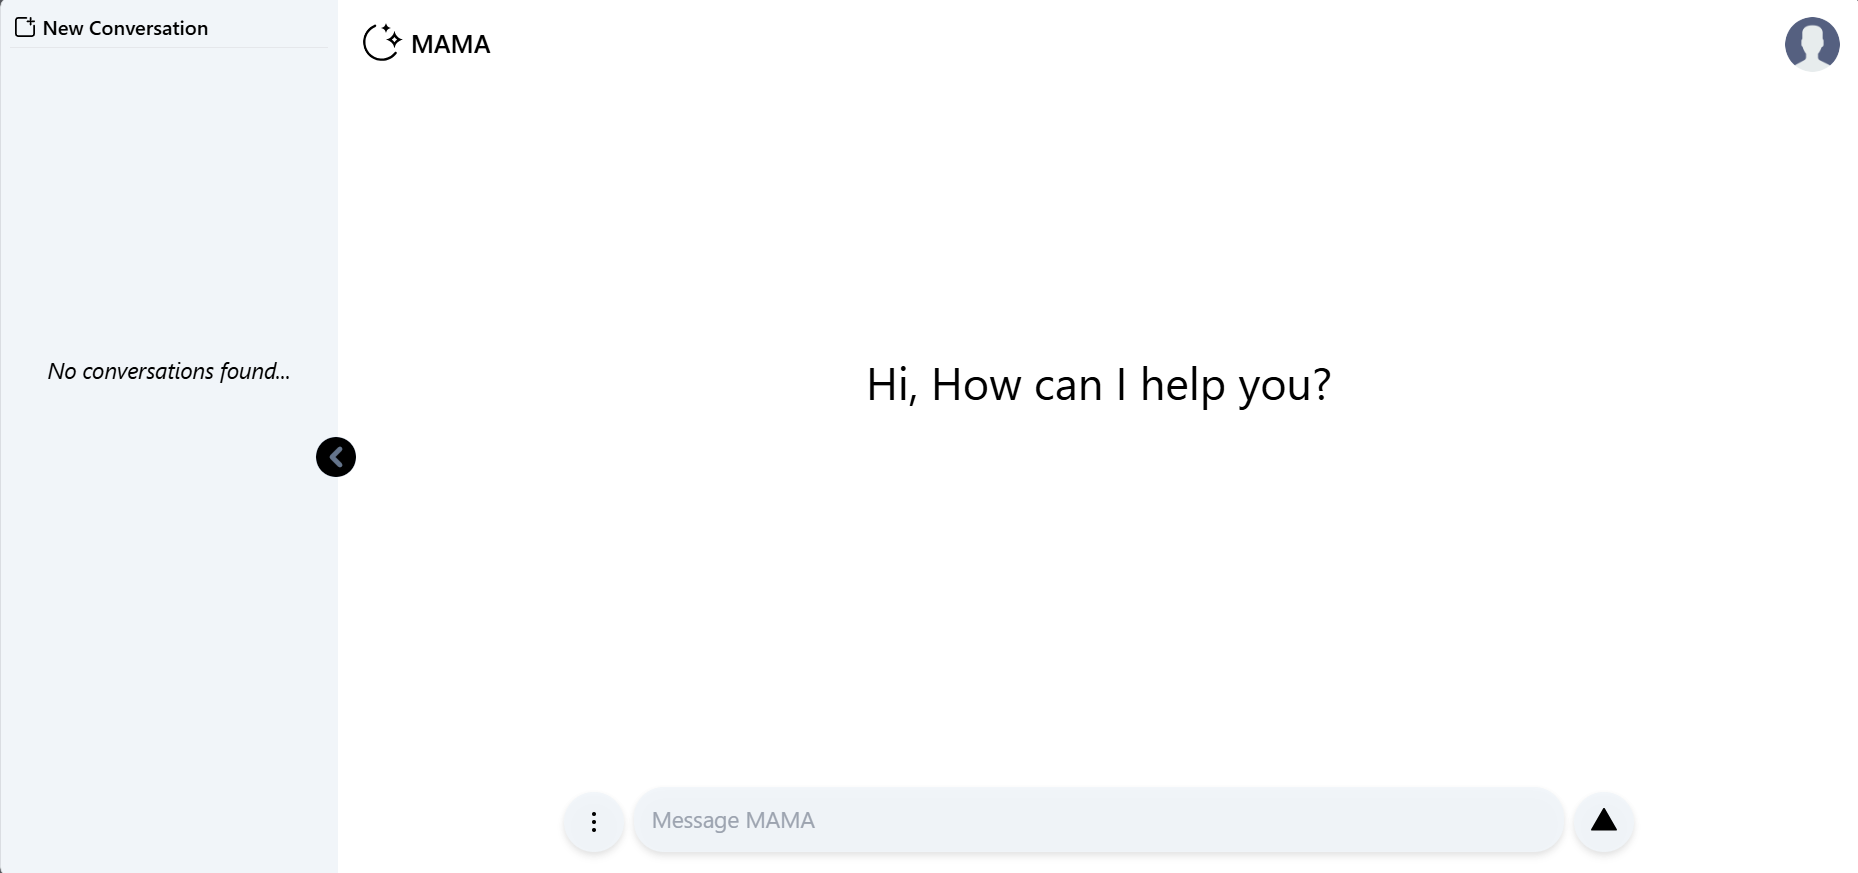
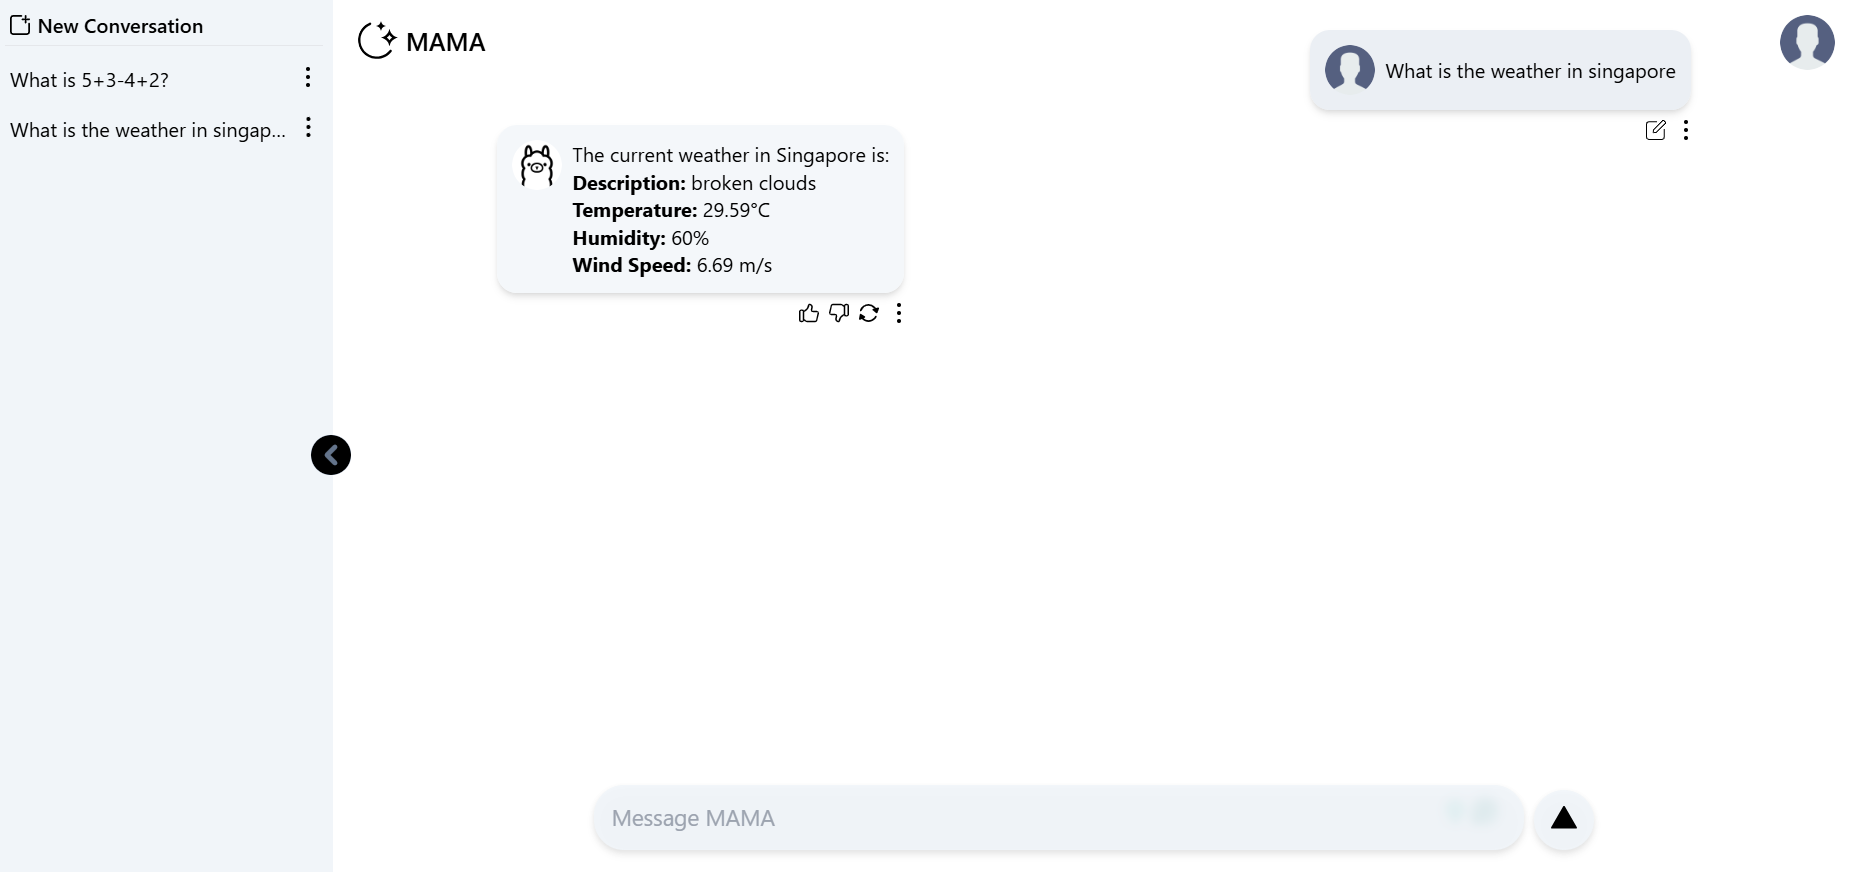
Prevented the Socket connection from closing after long agent calls, some minor fixes on the routes regarding validation and include new UI image

diff --git a/ui/src/views/Chat.vue b/ui/src/views/Chat.vue
@@ -1,18 +1,18 @@
 <template>
-    <div class="grid grid-cols-11 grid-rows-8 w-full h-screen bg-white">
-      <div class="col-span-2 row-span-8 bg-slate-100 p-2 relative">
-        <HistoryPanel/>
-        <img class="w-8 h-8 cursor-pointer rotate-180 absolute -right-3.5 top-[50%] bg-slate-500 rounded-full" src="../assets/arrow.svg"/>
-      </div>
-      <div class="col-span-9 row-span-7 bg-transparent relative h-screen">
-        <LogoPanel/>
-        <UserPanel/>
-        <ChatPanel/>
-      </div>
-      <div class="col-span-9 row-span-1 relative flex justify-center bg-transparent">
-        <QueryPanel/>
-      </div>
+  <div class="grid grid-cols-11 grid-rows-8 w-full h-screen bg-white">
+    <div class="col-span-2 row-span-8 bg-slate-100 p-2 relative">
+      <HistoryPanel/>
+      <img class="w-8 h-8 cursor-pointer rotate-180 absolute -right-3.5 top-[50%] bg-slate-500 rounded-full" src="../assets/arrow.svg"/>
     </div>
+    <div class="col-span-9 row-span-7 bg-transparent relative h-screen">
+      <LogoPanel/>
+      <UserPanel/>
+      <ChatPanel/>
+    </div>
+    <div class="col-span-9 row-span-1 relative flex justify-center bg-transparent">
+      <QueryPanel/>
+    </div>
+  </div>
 </template>
   
 <script>
@@ -23,11 +23,6 @@ import QueryPanel from '../components/panel/QueryPanel.vue';
 import UserPanel from '../components/panel/UserPanel.vue';
   
 export default {
-    data() {
-        return {
-            socket: null
-        }
-    },
     components: {
       QueryPanel,UserPanel,HistoryPanel,ChatPanel,LogoPanel
     }

diff --git a/ui/src/store/index.js b/ui/src/store/index.js
@@ -73,10 +73,12 @@ const store=createStore({
             state.integrations.push(integration)
         },
         editIntegration(state,{id,name,key}){
-            let integration=state.integrations.find(integration=>integration.id==id)
-            state.integrations=state.integrations.filter(integration=>integration.id!=id)
-            integration.key=key
-            state.integrations.push(integration)
+            state.integrations=state.integrations.map(integration=>{
+                if(integration.id==id){
+                    integration.key=key
+                }
+                return integration
+            })
         },
         deleteIntegration(state,id){
             state.integrations=state.integrations.filter(integration=>integration.id!=id)
@@ -88,13 +90,15 @@ const store=createStore({
             state.conversation={id,title}
         },
         addConversation(state,conversation){
-            state.conversations.push(conversation)
+            state.conversations.unshift(conversation)
         },
         editConversation(state,{id,title}){
-            let conversation=state.conversations.find(conversation=>conversation.id==id)
-            state.conversations=state.conversations.filter(conversation=>conversation.id!=id)
-            conversation.title=title
-            state.conversations.push(conversation)
+            state.conversations=state.conversations.map(conversation=>{
+                if(conversation.id==id){
+                    conversation.title=title
+                }
+                return conversation
+            })
         },
         deleteConversation(state,id){
             state.conversations=state.conversations.filter(conversation=>conversation.id!=id)
@@ -198,7 +202,7 @@ const store=createStore({
             let response=await axios.get(`api/conversation`)
             let [data,status]=response.data
             if(data.status=='success'){
-                let conversations=data.conversations
+                let conversations=data.conversations.reverse()
                 commit('getConversations',conversations)
             }
             console.log(data.message);
@@ -207,6 +211,7 @@ const store=createStore({
             let response=await axios.get(`api/conversation/${conversation_id}`)
             let [data,status]=response.data
             if(data.status=='success'){
+                console.log(data);
                 let {id,title,messages}=data.conversation
                 commit('getConversation',{id,title})
                 commit('getMessages',messages)

diff --git a/server.py b/server.py
@@ -1,12 +1,12 @@
-from fastapi import FastAPI,WebSocket,WebSocketDisconnect
+from fastapi import FastAPI, WebSocket, WebSocketDisconnect, BackgroundTasks
 from fastapi.middleware.cors import CORSMiddleware
 from contextlib import asynccontextmanager
 from api.conversation import conversation
-from src.inference.groq import ChatGroq
+from src.inference.gemini import ChatGemini
 from api.integration import integration
 from src.agent.meta import MetaAgent
 from api.init_database import engine
-from sqlmodel import Session,select
+from sqlmodel import Session, select
 from api.message import message
 from dotenv import load_dotenv
 from sqlmodel import SQLModel
@@ -17,22 +17,24 @@ from experimental import *
 from api.tool import tool
 from os import environ
 import uvicorn
+import asyncio
 
 load_dotenv()
-api_key=environ.get('GROQ_API_KEY')
+api_key = environ.get('GOOGLE_API_KEY')
 
 @asynccontextmanager
-async def lifespan(app:FastAPI):
+async def lifespan(app: FastAPI):
     print('Server starting...')
     SQLModel.metadata.create_all(engine)
     yield
     print('Server stopping...')
 
-app=FastAPI(title='Nova Orchestrator',version=1.0,
-description="The Nova coordinates the process, leveraging a ReAct Agent for tool-based tasks and a Chain of Thought Agent for reasoning-based tasks. The system's flexibility.",
-lifespan=lifespan)
+app = FastAPI(title='Nova Orchestrator', version=1.0,
+              description="The Nova coordinates the process, leveraging a ReAct Agent for tool-based tasks and a Chain of Thought Agent for reasoning-based tasks. The system's flexibility.",
+              lifespan=lifespan)
 
-llm=ChatGroq(model='llama-3.1-70b-versatile',api_key=api_key,temperature=0)
+# Initialize the LLM model (ChatGemini)
+llm = ChatGemini(model='gemini-2.0-flash-exp', api_key=api_key, temperature=0)
 
 app.add_middleware(
     CORSMiddleware,
@@ -42,27 +44,43 @@ app.add_middleware(
     allow_headers=["*"]
 )
 
+# Asynchronous function to handle agent streaming
+async def call_agent(websocket: WebSocket, query: str, agent: MetaAgent):
+    try:
+        chunks = agent.stream(query)  # Assuming stream yields chunks
+        for chunk in chunks:
+            await websocket.send_json(chunk)  # Send the chunk to WebSocket
+            print(f"Sent chunk: {chunk}")
+    except Exception as e:
+        await websocket.send_json({"status": "error", "message": str(e)})
+
 @app.websocket("/ws")
-async def socket(websocket:WebSocket):
+async def socket(websocket: WebSocket):
+    # Load agents from the database
     with Session(engine) as session:
-        agents=[{
-            'name':agent.name,
-            'description':agent.description,
-            'tools':[eval(tool.function_name)
-                for tool in agent.tools]}
-                for agent in session.exec(select(Agent)).all()]
-    agent=MetaAgent(agents=agents,llm=llm,verbose=True)
+        agents = [{
+            'name': agent.name,
+            'description': agent.description,
+            'tools': [eval(tool.function_name) for tool in agent.tools]
+        } for agent in session.exec(select(Agent)).all()]
+    agent = MetaAgent(agents=agents, llm=llm, verbose=True)
+    # Accept the WebSocket connection
     await websocket.accept()
     while True:
         try:
-            data=await websocket.receive_text()
-            chunks=agent.stream(data)
-            for chunk in chunks:
-                await websocket.send_json(chunk)
-                print(chunk)
+            # Receive the query from the WebSocket
+            query = await websocket.receive_text()
+            # Start the agent processing in the background
+            asyncio.create_task(call_agent(websocket, query, agent))
+
         except WebSocketDisconnect:
+            print("WebSocket disconnected")
+            break
+        except Exception as e:
+            print(f"Error during WebSocket communication: {e}")
             break
 
+# Include routers
 app.include_router(user)
 app.include_router(conversation)
 app.include_router(integration)
@@ -70,5 +88,5 @@ app.include_router(message)
 app.include_router(agent)
 app.include_router(tool)
 
-if __name__=='__main__':
-    uvicorn.run(app,host='0.0.0.0',port=8000)
+if __name__ == '__main__':
+    uvicorn.run(app, host='0.0.0.0', port=8000)

diff --git a/experimental.py b/experimental.py
@@ -4,37 +4,39 @@ from dotenv import load_dotenv
 import json
 import os
 
+load_dotenv()
+
 class Weather(BaseModel):
-    location:str=Field(...,description="The location to get the weather for.",example=['London'])
+    location:str=Field(...,description="The location to get weather information for",example=["London, UK"])
 
 @tool("Weather Tool",args_schema=Weather)
-def weather_tool(location:str):
+def weather_tool(location:str)->str:
     '''
-    Gets the current weather data for the given location using OpenWeatherMap API and returns the formatted results.
+    Fetches the current weather conditions for a given location using the OpenWeatherMap API.
     '''
-    import os
     import requests
-    import json
-    from pydantic import BaseModel
-    from typing import Optional
-
+    import os
     api_key=os.environ.get('OPENWEATHERMAP_API_KEY')
+    base_url = "http://api.openweathermap.org/data/2.5/weather"
     try:
-        response=requests.get(f'http://api.openweathermap.org/data/2.5/weather?q={location}&appid={api_key}&units=metric')
-        data=response.json()
-        if data['cod']!='404':
-            main=data['main']
-            weather=data['weather']
-            weather_data={
-                'location':location,
-                'temperature':main['temp'],
-                'humidity':main['humidity'],
-                'weather_description':weather[0]['description'],
-                'weather_icon':weather[0]['icon']
-            }
-            return json.dumps(weather_data,indent=4)
-        else:
-            return f'Error: Location not found. Please try again with a different location.'
+        params = {
+            "q": location,
+            "appid": api_key,
+            "units": "metric"  # Use metric units for temperature in Celsius
+        }
+        response = requests.get(base_url, params=params)
+        response.raise_for_status()  # Raise an exception for HTTP errors
+        data = response.json()
+        if data["cod"] != 200:
+            return f"Error: {data['message']}"
+        weather_desc = data["weather"][0]["description"]
+        temperature = data["main"]["temp"]
+        humidity = data["main"]["humidity"]
+        wind_speed = data["wind"]["speed"]
+        result = f"Weather in {location}:\nDescription: {weather_desc}\nTemperature: {temperature}°C\nHumidity: {humidity}%\nWind Speed: {wind_speed} m/s"
+    except requests.exceptions.RequestException as err:
+        return f"Error: {err}"
     except Exception as err:
-        return f'Error: {err}'
+        return f"Error: {err}"
+    return result
 

diff --git a/api/conversation/__init__.py b/api/conversation/__init__.py
@@ -37,7 +37,11 @@ def get_conversation(id:UUID,current_user:dict=Depends(get_current_user)):
         if existing_conversation:
             return {
                 'status': 'success',
-                'conversation': existing_conversation.model_dump(include={'messages':{'model':Message}}),
+                'conversation': {
+                    'id': existing_conversation.id,
+                    'title': existing_conversation.title,
+                    'messages': existing_conversation.messages
+                },
                 'message': f'Messages of the conversation {id} fetched successfully.'
             },status.HTTP_200_OK
         else:

diff --git a/api/message/__init__.py b/api/message/__init__.py
@@ -4,7 +4,7 @@ from api.init_database import engine
 from api.models import Conversation,User,Message
 from api.user import get_current_user
 from sqlmodel import Session,select
-
+from uuid import UUID
 
 message=APIRouter(prefix='/api/message',tags=['Message'])
 
@@ -22,7 +22,7 @@ def add_message(data:MessageData,current_user:dict=Depends(get_current_user)):
         },status.HTTP_401_UNAUTHORIZED
     with Session(engine) as session:
         current_user=session.exec(select(User).where(User.id==current_user.get('id'))).first()
-        existing_conversation=session.exec(select(Conversation).where(Conversation.user==current_user,Conversation.id==data.conversation_id)).first()
+        existing_conversation=session.exec(select(Conversation).where(Conversation.user==current_user,Conversation.id==UUID(data.conversation_id))).first()
         if existing_conversation:
             message = Message(**{
                 'role':data.role,

diff --git a/api/models.py b/api/models.py
@@ -32,7 +32,7 @@ class Conversation(SQLModel, table=True):
     id: UUID = Field(default_factory=uuid4, primary_key=True)
     title: str=Field(nullable=False,description='The title of the conversation')
     user_id:UUID = Field(foreign_key="user.id",nullable=False)
-    messages: List["Message"] = Relationship(back_populates="conversation",sa_relationship_kwargs={'cascade':"save-update, merge"})
+    messages: List["Message"] = Relationship(back_populates="conversation",sa_relationship_kwargs={'cascade': "all, delete-orphan"})
     user: 'User' = Relationship(back_populates="conversations",sa_relationship_kwargs={'cascade':"save-update, merge"})
 
 class Message(SQLModel, table=True):
@@ -40,7 +40,7 @@ class Message(SQLModel, table=True):
     role: str=Field(nullable=False,description='The role of the message')
     content: str=Field(nullable=False,description='The content of the message')
     timestamp: datetime = Field(default_factory=datetime.now)
-    session_id: UUID = Field(foreign_key="conversation.id")
+    session_id: UUID = Field(foreign_key="conversation.id",nullable=False)
     conversation: Conversation = Relationship(back_populates="messages")
 
 class User(SQLModel, table=True):

diff --git a/src/agent/react/__init__.py b/src/agent/react/__init__.py
@@ -35,8 +35,8 @@ class ReactAgent(BaseAgent):
         self.add_tools_to_toolbox([user_interface_tool,*tools])
 
     def reason(self,state:AgentState):
-        if self.iteration%2!=0:
-            sleep(60) #To prevent from hitting the API rate limit
+        # if self.iteration%2!=0:
+        #     sleep(60) #To prevent from hitting the API rate limit
         message=self.llm.invoke(state['messages'])
         response=extract_llm_response(message.content)
         # print(message.content)